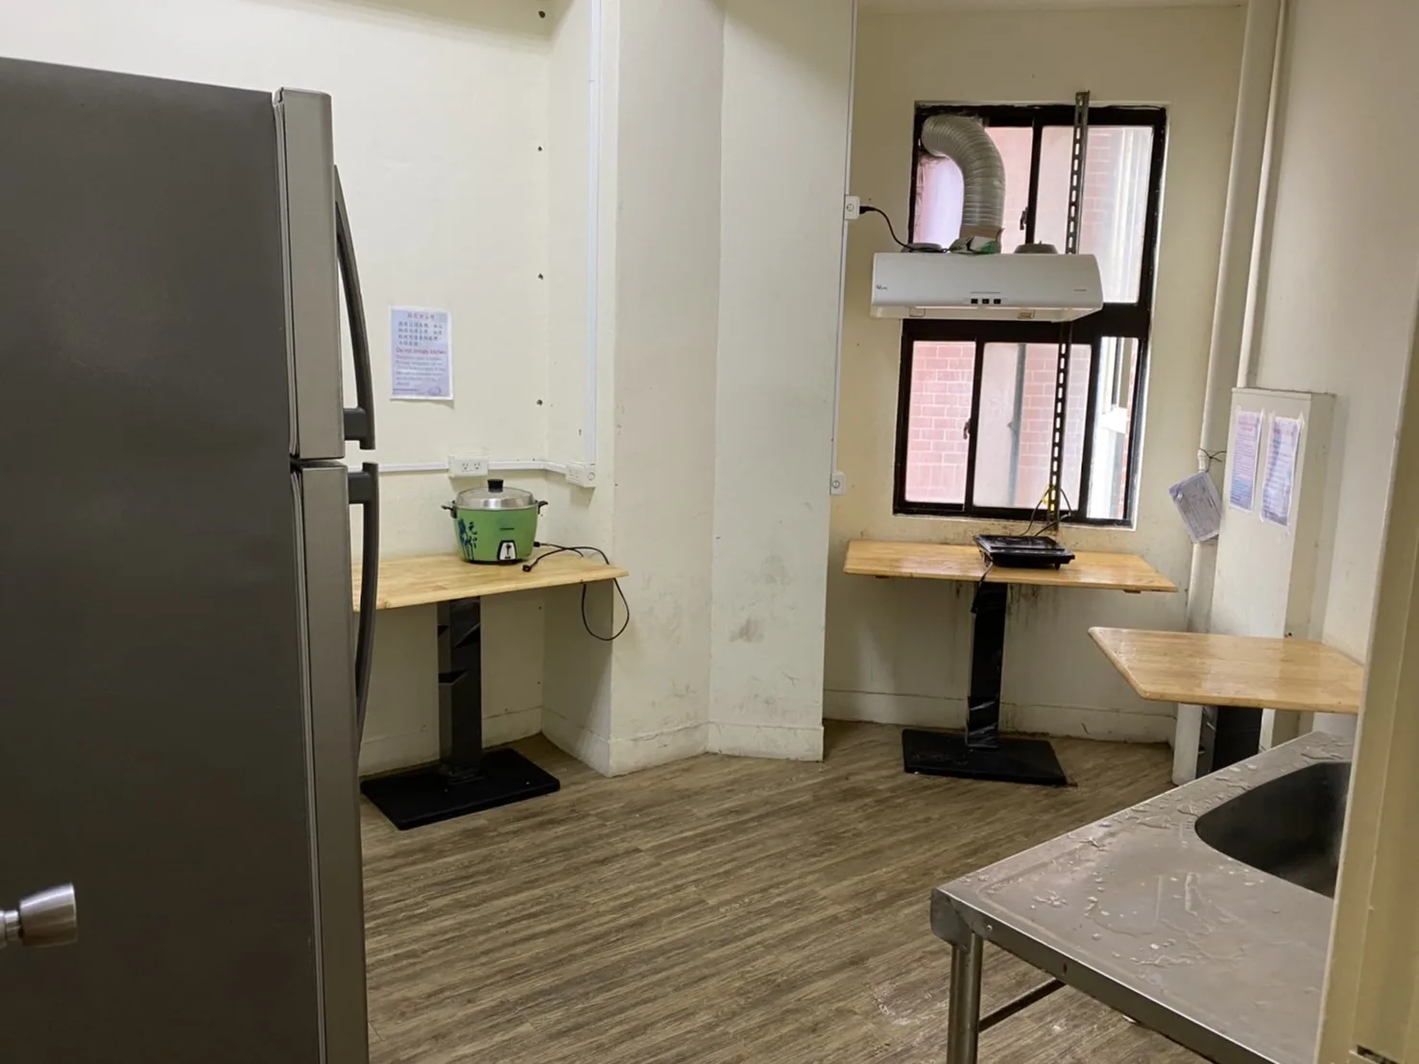
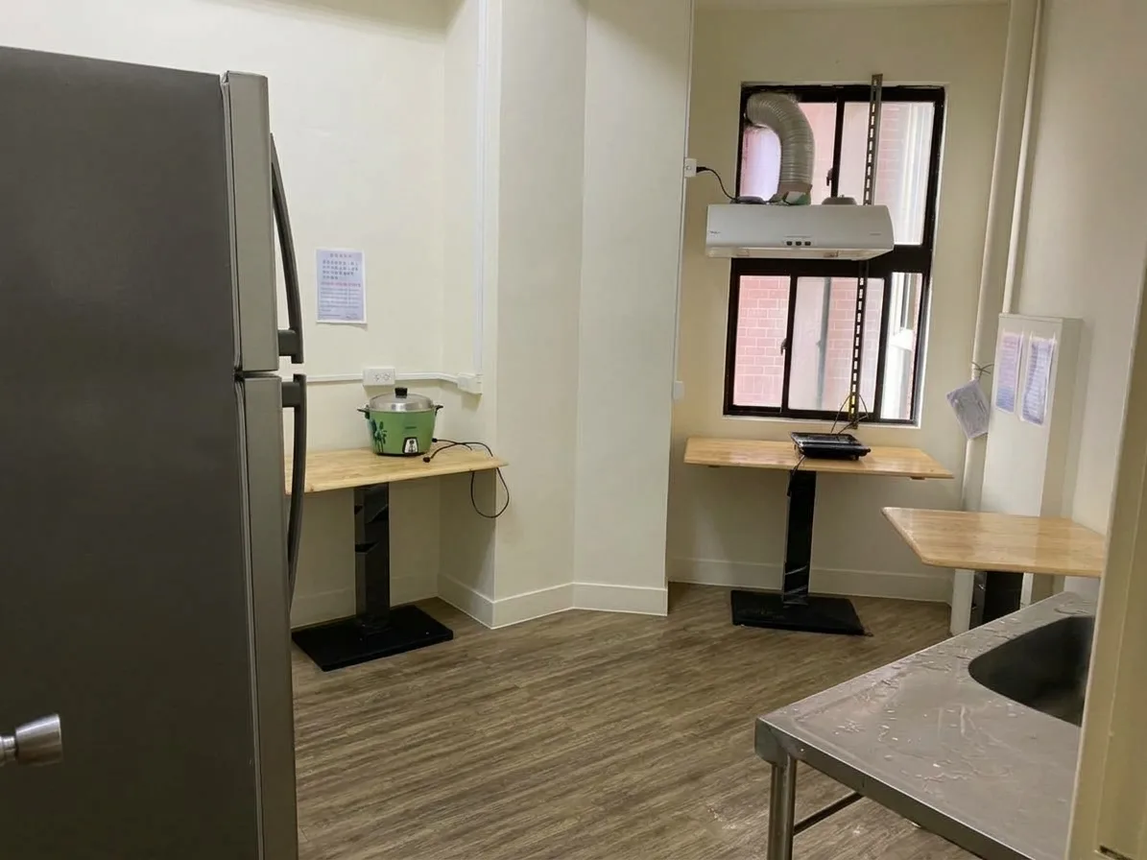
Update dormitory kitchen assets and page logic
Replit-Commit-Author: Agent

diff --git a/dormitory/index.php b/dormitory/index.php
@@ -24,14 +24,14 @@ $roomTypes = [
     [
         'number' => '01',
         'name' => 'Dormitory 1',
-        'type' => 'Quad Room (Standard)',
-        'description' => 'The main residential area for freshmen and international students. Each bed comes with its own desk, chair, wardrobe, and private internet connection.',
-        'detail' => 'Dormitory 1 · Campus Community',
+        'type' => "Standard Quad · Men's Residence",
+        'description' => 'A men’s residence with shared rooms and communal facilities. Each bed has its own desk, chair, wardrobe, and internet connection.',
+        'detail' => 'Men’s residence · Shared facilities',
         'class' => 'room-card--single',
         'symbol' => 'beds',
         'cover' => 'assets/dorm-1-room.webp',
         'coverAlt' => 'Dormitory 1 shared room with bunk beds and personal desks',
-        'features' => ['Four-person room', 'Personal desk and wardrobe', 'Private internet connection'],
+        'features' => ['Men’s residence', 'Shared bathroom facilities', 'Personal desk, chair, and wardrobe'],
         'gallery' => [
             ['src' => 'assets/dorm-1-room.webp', 'alt' => 'Dormitory 1 shared room with bunk beds and personal desks'],
             ['src' => 'assets/dorm-1-bathroom.webp', 'alt' => 'Bathroom facilities in Dormitory 1'],
@@ -41,50 +41,54 @@ $roomTypes = [
     [
         'number' => '02',
         'name' => 'Dormitory 2',
-        'type' => 'Quad Room (Standard)',
-        'description' => 'The main residential area for freshmen and international students. Each bed comes with its own desk, chair, wardrobe, and private internet connection.',
-        'detail' => 'Dormitory 2 · Campus Community',
+        'type' => 'Standard Quad · Women’s Residence',
+        'description' => 'A women’s residence with shared rooms and communal facilities. Each bed has its own desk, chair, wardrobe, and internet connection.',
+        'detail' => 'Women’s residence · Management Center on 1F',
         'class' => 'room-card--single',
         'symbol' => 'beds',
         'cover' => 'assets/dorm-2-room.webp',
         'coverAlt' => 'Dormitory 2 shared room with bunk beds and built-in desks',
-        'features' => ['Four-person room', 'Personal desk and wardrobe', 'Private internet connection'],
+        'features' => ['Women’s residence', 'Shared bathroom facilities', 'Management Center and package pickup on the first floor'],
         'gallery' => [
             ['src' => 'assets/dorm-2-room.webp', 'alt' => 'Dormitory 2 shared room with bunk beds and built-in desks'],
             ['src' => 'assets/dorm-2-corridor.webp', 'alt' => 'Hallway connecting rooms in Dormitory 2'],
             ['src' => 'assets/dorm-2-bathroom.webp', 'alt' => 'Bathroom facilities in Dormitory 2'],
+            ['src' => 'assets/dorm-2-kitchen-angle-1.webp', 'alt' => 'Recently updated shared kitchen in Dormitory 2, wide view'],
+            ['src' => 'assets/dorm-2-kitchen-angle-2.webp', 'alt' => 'Recently updated shared kitchen in Dormitory 2, dining area'],
+            ['src' => 'assets/dorm-2-kitchen-angle-4.webp', 'alt' => 'Recently updated shared kitchen in Dormitory 2, counter and windows'],
+            ['src' => 'assets/dorm-2-kitchen-angle-7.webp', 'alt' => 'Recently updated shared kitchen in Dormitory 2, counter and refrigerator'],
         ],
     ],
     [
         'number' => '03',
         'name' => 'Dormitory 3A',
-        'type' => 'Suite-Style Living',
-        'description' => 'Spacious suite-style layout featuring central air conditioning, ensuite bathrooms, and personal drying balconies for local senior students.',
-        'detail' => 'Dormitory 3A · Modern Suite',
+        'type' => 'Private Suite · Higher-cost option',
+        'description' => 'Women’s residence in the shared Dormitory 3 building, separated indoors from 3B by walls. Every room has a private bathroom and balcony; the suite layout is identical to 3B and costs more than Dormitories 1 and 2.',
+        'detail' => 'Women’s residence · Private bathroom and balcony',
         'class' => 'room-card--shared',
         'symbol' => 'door',
-        'cover' => 'https://images.unsplash.com/photo-1631679706909-1844bbd07221?auto=format&fit=crop&w=1400&q=82',
-        'coverAlt' => 'Illustrative suite lounge; not a confirmed Dormitory 3A photo',
-        'features' => ['Suite-style floor plan', 'Central air conditioning', 'Ensuite bathroom and drying balcony'],
+        'cover' => 'assets/dorm-3-building.webp',
+        'coverAlt' => 'Exterior of the shared building that contains Dormitories 3A and 3B',
+        'features' => ['Women’s residence', 'Private bathroom and balcony in every room', 'Same indoor suite layout as Dormitory 3B', 'Higher-cost than Dormitories 1 and 2'],
         'gallery' => [
-            ['src' => 'https://images.unsplash.com/photo-1631679706909-1844bbd07221?auto=format&fit=crop&w=1400&q=82', 'alt' => 'Illustrative suite lounge; not a confirmed Dormitory 3A photo'],
-            ['src' => 'https://images.unsplash.com/photo-1600607687939-ce8a6c25118c?auto=format&fit=crop&w=1400&q=82', 'alt' => 'Illustrative reference room; not a confirmed Dormitory 3A photo'],
-            ['src' => 'https://images.unsplash.com/photo-1600607687920-4e2a09cf159d?auto=format&fit=crop&w=1400&q=82', 'alt' => 'Illustrative reference suite; not a confirmed Dormitory 3A photo'],
+            ['src' => 'assets/dorm-3-building.webp', 'alt' => 'Exterior of the shared building that contains Dormitories 3A and 3B'],
+            ['src' => 'assets/shared-laundry.webp', 'alt' => 'Shared laundry facilities serving the Dormitory 3 balconies'],
         ],
     ],
     [
         'number' => '04',
         'name' => 'Dormitory 3B',
-        'type' => 'Suite-Style Living',
-        'description' => 'Spacious suite-style layout featuring central air conditioning, ensuite bathrooms, and personal drying balconies for local senior students.',
-        'detail' => 'Dormitory 3B · Modern Suite',
+        'type' => 'Private Suite · Higher-cost option',
+        'description' => 'Men’s residence in the shared Dormitory 3 building, separated indoors from 3A by walls. Every room has a private bathroom and balcony; the suite layout is identical to 3A and costs more than Dormitories 1 and 2.',
+        'detail' => 'Men’s residence · Private bathroom and balcony',
         'class' => 'room-card--shared',
         'symbol' => 'door',
-        'features' => ['Suite-style floor plan', 'Central air conditioning', 'Ensuite bathroom and drying balcony'],
+        'cover' => 'assets/dorm-3-building.webp',
+        'coverAlt' => 'Exterior of the shared building that contains Dormitories 3A and 3B',
+        'features' => ['Men’s residence', 'Private bathroom and balcony in every room', 'Same indoor suite layout as Dormitory 3A', 'Higher-cost than Dormitories 1 and 2'],
         'gallery' => [
-            ['src' => 'https://images.unsplash.com/photo-1631679706909-1844bbd07221?auto=format&fit=crop&w=1400&q=82', 'alt' => 'Illustrative reference suite lounge; not a confirmed Dormitory 3B photo'],
-            ['src' => 'https://images.unsplash.com/photo-1600607687939-ce8a6c25118c?auto=format&fit=crop&w=1400&q=82', 'alt' => 'Illustrative reference room; not a confirmed Dormitory 3B photo'],
-            ['src' => 'https://images.unsplash.com/photo-1600607687920-4e2a09cf159d?auto=format&fit=crop&w=1400&q=82', 'alt' => 'Illustrative reference suite; not a confirmed Dormitory 3B photo'],
+            ['src' => 'assets/dorm-3-building.webp', 'alt' => 'Exterior of the shared building that contains Dormitories 3A and 3B'],
+            ['src' => 'assets/shared-laundry.webp', 'alt' => 'Shared laundry facilities serving the Dormitory 3 balconies'],
         ],
     ],
     [
@@ -113,8 +117,12 @@ $spaces = [
         'text' => 'Located right around the residence blocks with restaurants, convenience stores, cafés, and an ATM network to meet all daily needs.',
         'mark' => 'F',
         'tone' => 'space-panel--rose',
-        'image' => 'assets/dorm-1-dining.webp',
-        'imageAlt' => 'Student dining area with tables and chairs at the residence',
+        'slides' => [
+            ['image' => 'assets/dorm-1-dining.webp', 'alt' => 'Dining area with tables and chairs at the residence'],
+            ['image' => 'assets/campus-foodcourt-1.webp', 'alt' => 'Dining tables in a campus food court'],
+            ['image' => 'assets/campus-foodcourt-2.webp', 'alt' => 'Indoor view of the campus food court'],
+            ['image' => 'assets/campus-foodcourt-3.webp', 'alt' => 'Another view of the campus food court seating'],
+        ],
     ],
     [
         'index' => '02 / STUDY',
@@ -122,17 +130,64 @@ $spaces = [
         'text' => 'Quiet student lounges, reading rooms, and comfortable spaces designed for collaborative study or relaxed conversations.',
         'mark' => 'S',
         'tone' => 'space-panel--sage',
-        'image' => 'assets/dorm-1-study.webp',
-        'imageAlt' => 'Bright study room with desks and chairs inside the residence',
+        'slides' => [
+            ['image' => 'assets/dorm-1-study.webp', 'alt' => 'Study room with desks and chairs in Dormitory 1'],
+            ['image' => 'assets/dorm-2-study-angle-1.webp', 'alt' => 'Study room and desks in Dormitory 2, wide view'],
+            ['image' => 'assets/dorm-2-study-angle-2.webp', 'alt' => 'Study room in Dormitory 2, view of the seating area'],
+            ['image' => 'assets/dorm-2-study-angle-3.webp', 'alt' => 'Study room in Dormitory 2, alternate angle'],
+            ['image' => 'assets/dorm-2-study-angle-4.webp', 'alt' => 'Study room in Dormitory 2, view toward the work tables'],
+        ],
     ],
     [
-        'index' => '03 / CARE',
-        'name' => 'Convenience & Wellness',
-        'text' => 'Equipped with simple kitchens, Muslim prayer rooms, laundry balconies, coin-operated washers, and 24-hour support.',
+        'index' => '03 / DAILY LIFE',
+        'name' => 'Shared Kitchens & Laundry',
+        'text' => 'See the updated kitchens in Dormitories 1 and 2, plus shared laundry facilities for dorm residents.',
         'mark' => 'W',
         'tone' => 'space-panel--gold',
-        'image' => 'assets/dorm-1-kitchen.webp',
-        'imageAlt' => 'Shared kitchen counter and sink in the residence',
+        'slides' => [
+            ['image' => 'assets/dorm-2-kitchen-angle-1.webp', 'alt' => 'Updated shared kitchen in Dormitory 2, wide view'],
+            ['image' => 'assets/dorm-2-kitchen-angle-2.webp', 'alt' => 'Updated shared kitchen in Dormitory 2, dining area'],
+            ['image' => 'assets/dorm-2-kitchen-angle-4.webp', 'alt' => 'Updated shared kitchen in Dormitory 2, counter and windows'],
+            ['image' => 'assets/dorm-2-kitchen-angle-6.webp', 'alt' => 'Updated shared kitchen in Dormitory 2, tables and counter'],
+            ['image' => 'assets/dorm-2-kitchen-angle-7.webp', 'alt' => 'Updated shared kitchen in Dormitory 2, counter and refrigerator'],
+            ['image' => 'assets/dorm-2-kitchen-angle-8.webp', 'alt' => 'Updated shared kitchen in Dormitory 2, view toward the dining table'],
+            ['image' => 'assets/dorm-1-kitchen.webp', 'alt' => 'Updated kitchen in the men’s Dormitory 1'],
+            ['image' => 'assets/shared-laundry.webp', 'alt' => 'Shared laundry facilities serving the dorm balconies'],
+        ],
+    ],
+    [
+        'index' => '04 / FITNESS',
+        'name' => 'Gym & Recreation',
+        'text' => 'A campus gym and indoor pool provide places to exercise, swim, and take a break from study.',
+        'mark' => 'G',
+        'tone' => 'space-panel--blue',
+        'slides' => [
+            ['image' => 'assets/campus-gym-building.webp', 'alt' => 'Campus gym building beside an outdoor running track'],
+            ['image' => 'assets/campus-gym-interior.webp', 'alt' => 'Exercise machines and weights inside the campus gym'],
+            ['image' => 'assets/campus-pool.webp', 'alt' => 'Indoor swimming pool on campus'],
+        ],
+    ],
+    [
+        'index' => '05 / STUDENT SUPPORT',
+        'name' => 'Student Affairs & Packages',
+        'text' => 'Student Affairs offers campus support. Pick up student packages at the Management Center on the first floor of Dormitory 2.',
+        'mark' => 'A',
+        'tone' => 'space-panel--lilac',
+        'slides' => [
+            ['image' => 'assets/student-affairs-office.webp', 'alt' => 'Student Affairs office area on campus'],
+            ['image' => 'assets/student-affairs-info.webp', 'alt' => 'Student Affairs information and organization display'],
+            ['image' => 'assets/dorm-2-building.webp', 'alt' => 'Exterior of Dormitory 2, where the Management Center is on the first floor'],
+        ],
+    ],
+    [
+        'index' => '06 / HEALTH',
+        'name' => 'Medical Services',
+        'text' => 'Medical service is available on the first floor of Dormitory 3.',
+        'mark' => 'M',
+        'tone' => 'space-panel--teal',
+        'slides' => [
+            ['image' => 'assets/medical-services.webp', 'alt' => 'Medical service room on the first floor of Dormitory 3'],
+        ],
     ],
 ];
 
@@ -159,7 +214,7 @@ $faqs = [
     ],
     [
         'question' => 'Where can I pick up packages and mail?',
-        'answer' => 'Registered mails and courier packages are handled through the post office or the dormitory front desk where the teacher-in-residence assists with notifications.',
+        'answer' => 'Pick up student packages at the Management Center on the first floor of Dormitory 2.',
     ],
 ];
 
@@ -536,12 +591,24 @@ function e(string $value): string
         .spaces-section .section-kicker { color: #93c5fd; }
         .spaces-section .section-heading h2 { max-width: 720px; color: #ffffff; }
         .spaces-section .section-heading p { color: rgba(255, 255, 255, .72); }
-        .spaces-grid { display: grid; grid-template-columns: 1.15fr .92fr .92fr; align-items: stretch; gap: 13px; }
+        .spaces-grid { display: grid; grid-template-columns: repeat(3, minmax(0, 1fr)); align-items: stretch; gap: 13px; }
         .space-panel { position: relative; display: flex; min-height: 380px; flex-direction: column; justify-content: space-between; overflow: hidden; padding: 22px; color: var(--ink); border: 1px solid rgba(255,255,255,0.1); }
         .space-panel--rose { background: #e0f2fe; }
         .space-panel--sage { background: #e2e8f0; }
         .space-panel--gold { background: #fef3c7; }
-        .space-photo { display: block; width: calc(100% + 44px); height: 178px; flex: 0 0 178px; margin: -22px -22px 0; object-fit: cover; }
+        .space-panel--blue { background: #dbeafe; }
+        .space-panel--lilac { background: #ede9fe; }
+        .space-panel--teal { background: #ccfbf1; }
+        .space-media { position: relative; width: calc(100% + 44px); height: 178px; flex: 0 0 178px; margin: -22px -22px 0; overflow: hidden; background: #dbe3e9; }
+        .space-slide { position: absolute; inset: 0; margin: 0; opacity: 0; transition: opacity .65s ease; }
+        .space-slide.is-active { opacity: 1; }
+        .space-photo { display: block; width: 100%; height: 100%; object-fit: cover; }
+        .space-slideshow-controls { position: absolute; right: 9px; bottom: 9px; z-index: 1; display: flex; align-items: center; gap: 5px; padding: 5px; background: rgba(8, 35, 56, .78); color: #fff; }
+        .space-slideshow-controls[hidden] { display: none; }
+        .space-slideshow-controls button { display: grid; width: 30px; height: 30px; place-items: center; padding: 0; border: 1px solid rgba(255, 255, 255, .56); background: transparent; color: #fff; font: inherit; font-size: 18px; line-height: 1; cursor: pointer; }
+        .space-slideshow-controls button:hover { background: rgba(255, 255, 255, .18); }
+        .space-slideshow-controls button:focus-visible { outline: 2px solid #fff; outline-offset: 2px; }
+        .space-slide-count { min-width: 43px; padding-inline: 3px; color: #fff; font-size: 10px; font-variant-numeric: tabular-nums; text-align: center; }
         .space-index { position: relative; z-index: 1; margin-top: 15px; color: var(--yzu-blue); }
         .space-mark {
             position: absolute;
@@ -637,6 +704,7 @@ function e(string $value): string
             .hero-layout { grid-template-columns: 1fr 1fr; gap: 20px; }
             .hero h1 { font-size: clamp(42px, 7vw, 68px); }
             .hero-art { min-height: 420px; }
+            .spaces-grid { grid-template-columns: repeat(2, minmax(0, 1fr)); }
             .room-card-content { padding-inline: 18px; }
             .room-card p { min-height: 96px; }
             .daily-layout, .housing-layout { gap: 50px; }
@@ -898,7 +966,7 @@ function e(string $value): string
                         </article>
                     <?php endforeach; ?>
                 </div>
-                <p class="rooms-footnote"><span>Note</span> Each bed comes with a personal desk, chair, wardrobe, and internet connection.</p>
+                <p class="rooms-footnote"><span>Note</span> Dormitories 1 and 2 have shared bathrooms and no private balcony. Dormitories 3A and 3B are higher-cost suites with a private bathroom and balcony in every room.</p>
             </div>
         </section>
 
@@ -922,7 +990,7 @@ function e(string $value): string
                     <p class="room-dialog-type"></p>
                     <p class="room-dialog-description" id="room-dialog-description"></p>
                     <ul class="room-dialog-highlights"></ul>
-                    <p class="room-dialog-note">Images are placeholders. Check the official YZU Housing Service portal for current room details and availability.</p>
+                    <p class="room-dialog-note">Confirm room assignments, fees, and availability with the official YZU Student Housing Service.</p>
                 </div>
             </div>
         </dialog>
@@ -963,12 +1031,26 @@ function e(string $value): string
                         <div class="eyebrow section-kicker">Living & Learning Facilities</div>
                         <h2 id="spaces-title">Everything you need,<br>right on campus.</h2>
                     </div>
-                    <p>Designed across five key dimensions: food, clothing, housing, education, and recreation.</p>
+                    <p>Explore the dining, study, fitness, health, and student-support spaces available around campus.</p>
                 </div>
                 <div class="spaces-grid">
                     <?php foreach ($spaces as $space): ?>
                         <article class="space-panel <?= e($space['tone']) ?>">
-                                <img class="space-photo" src="<?= e($space['image']) ?>" alt="<?= e($space['imageAlt']) ?>" loading="lazy" decoding="async">
+                            <div class="space-media"<?= count($space['slides']) > 1 ? ' data-space-slideshow role="group" aria-roledescription="carousel" aria-label="' . e($space['name']) . ' photos"' : '' ?>>
+                                <?php foreach ($space['slides'] as $slideIndex => $slide): ?>
+                                    <figure class="space-slide<?= $slideIndex === 0 ? ' is-active' : '' ?>" aria-hidden="<?= $slideIndex === 0 ? 'false' : 'true' ?>">
+                                        <img class="space-photo" src="<?= e($slide['image']) ?>" alt="<?= e($slide['alt']) ?>" loading="lazy" decoding="async">
+                                    </figure>
+                                <?php endforeach; ?>
+                                <?php if (count($space['slides']) > 1): ?>
+                                    <div class="space-slideshow-controls" hidden>
+                                        <button type="button" data-space-previous aria-label="Previous image">‹</button>
+                                        <button type="button" data-space-toggle aria-label="Pause automatic slideshow" aria-pressed="true">Ⅱ</button>
+                                        <span class="space-slide-count">1 / <?= count($space['slides']) ?></span>
+                                        <button type="button" data-space-next aria-label="Next image">›</button>
+                                    </div>
+                                <?php endif; ?>
+                            </div>
                             <div class="space-index"><?= e($space['index']) ?></div>
                             <span class="space-mark" aria-hidden="true"><?= e($space['mark']) ?></span>
                             <div class="space-copy">
@@ -1160,6 +1242,89 @@ function e(string $value): string
             });
             dialog.addEventListener('close', () => {
                 if (activeTrigger?.isConnected) activeTrigger.focus();
+            });
+
+            const slideshowPrefersReducedMotion = window.matchMedia('(prefers-reduced-motion: reduce)').matches;
+            document.querySelectorAll('[data-space-slideshow]').forEach((carousel) => {
+                const slides = Array.from(carousel.querySelectorAll('.space-slide'));
+                const controls = carousel.querySelector('.space-slideshow-controls');
+                const previousButton = controls.querySelector('[data-space-previous]');
+                const nextButton = controls.querySelector('[data-space-next]');
+                const toggleButton = controls.querySelector('[data-space-toggle]');
+                const counter = controls.querySelector('.space-slide-count');
+                let currentSlide = 0;
+                let automatic = !slideshowPrefersReducedMotion;
+                let inView = !('IntersectionObserver' in window);
+                let hovered = false;
+                let focused = false;
+                let timer = null;
+
+                controls.hidden = false;
+
+                const showSlide = (nextIndex) => {
+                    currentSlide = (nextIndex + slides.length) % slides.length;
+                    slides.forEach((slide, index) => {
+                        const active = index === currentSlide;
+                        slide.classList.toggle('is-active', active);
+                        slide.setAttribute('aria-hidden', String(!active));
+                    });
+                    counter.textContent = `${currentSlide + 1} / ${slides.length}`;
+                };
+
+                const updateTimer = () => {
+                    window.clearInterval(timer);
+                    timer = null;
+                    if (automatic && inView && !hovered && !focused && !document.hidden) {
+                        timer = window.setInterval(() => showSlide(currentSlide + 1), 5200);
+                    }
+                };
+
+                const step = (direction) => {
+                    showSlide(currentSlide + direction);
+                    updateTimer();
+                };
+
+                previousButton.addEventListener('click', () => step(-1));
+                nextButton.addEventListener('click', () => step(1));
+                toggleButton.addEventListener('click', () => {
+                    automatic = !automatic;
+                    toggleButton.setAttribute('aria-pressed', String(automatic));
+                    toggleButton.setAttribute('aria-label', automatic ? 'Pause automatic slideshow' : 'Play automatic slideshow');
+                    toggleButton.textContent = automatic ? 'Ⅱ' : '▶';
+                    updateTimer();
+                });
+
+                carousel.addEventListener('pointerenter', () => {
+                    hovered = true;
+                    updateTimer();
+                });
+                carousel.addEventListener('pointerleave', () => {
+                    hovered = false;
+                    updateTimer();
+                });
+                carousel.addEventListener('focusin', () => {
+                    focused = true;
+                    updateTimer();
+                });
+                carousel.addEventListener('focusout', (event) => {
+                    if (!carousel.contains(event.relatedTarget)) {
+                        focused = false;
+                        updateTimer();
+                    }
+                });
+                document.addEventListener('visibilitychange', updateTimer);
+
+                if ('IntersectionObserver' in window) {
+                    const observer = new IntersectionObserver((entries) => {
+                        entries.forEach((entry) => {
+                            inView = entry.isIntersecting;
+                            updateTimer();
+                        });
+                    }, { threshold: 0.1 });
+                    observer.observe(carousel);
+                }
+
+                updateTimer();
             });
 
             const prefersReducedMotion = window.matchMedia('(prefers-reduced-motion: reduce)').matches;

diff --git a/.agents/memory/dormitory-facts.md b/.agents/memory/dormitory-facts.md
@@ -1,0 +1,12 @@
+---
+name: Dormitory facts
+description: User-confirmed dormitory assignments, suite amenities, and package pickup location.
+---
+
+- Dormitory 1 is for men; Dormitory 2 is for women; Dormitory 3A is for women; Dormitory 3B is for men.
+- Dormitories 3A and 3B are in the same building and have identical indoor layouts, separated by walls. They cost more than Dormitories 1 and 2; each room has a private bathroom and balcony. Dormitories 1 and 2 do not have private bathrooms or balconies.
+- Students pick up packages at the Management Center on Dormitory 2’s first floor.
+
+**Why:** The user supplied these product facts; future edits should preserve them rather than infer room assignments or amenities from photos.
+
+**How to apply:** Use these facts when updating room cards, residence FAQs, facility descriptions, or other dormitory-site copy.

diff --git a/.agents/memory/MEMORY.md b/.agents/memory/MEMORY.md
@@ -1,1 +1,2 @@
 - [PHP preview routing](php-preview-routing.md) — in artifact-router projects, a PHP server must be registered as a web artifact service to reach the preview path.
+- [Dormitory facts](dormitory-facts.md) — preserve the hall assignments, Dormitory 3 suite differences, and package-pickup location in site copy.
